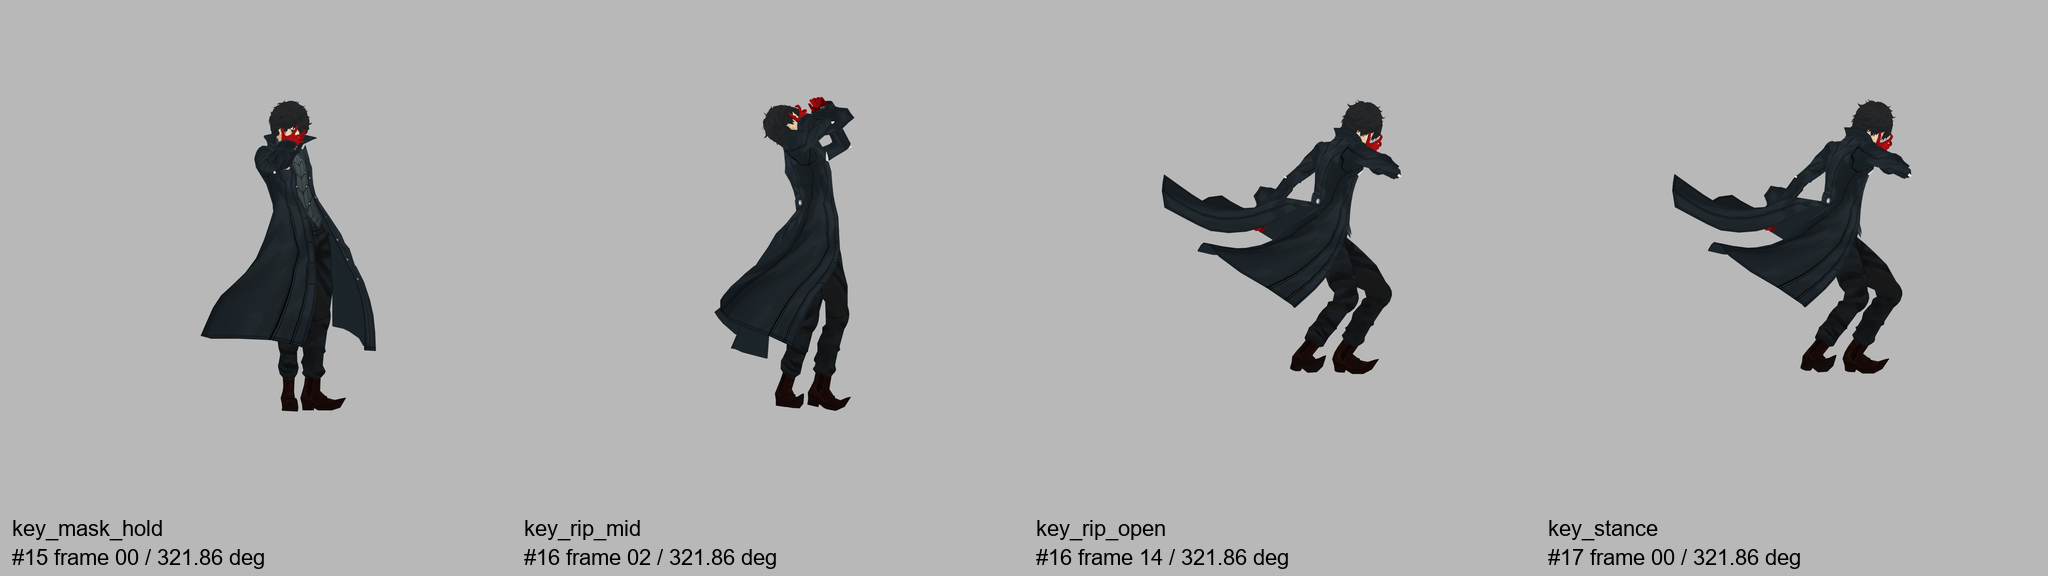
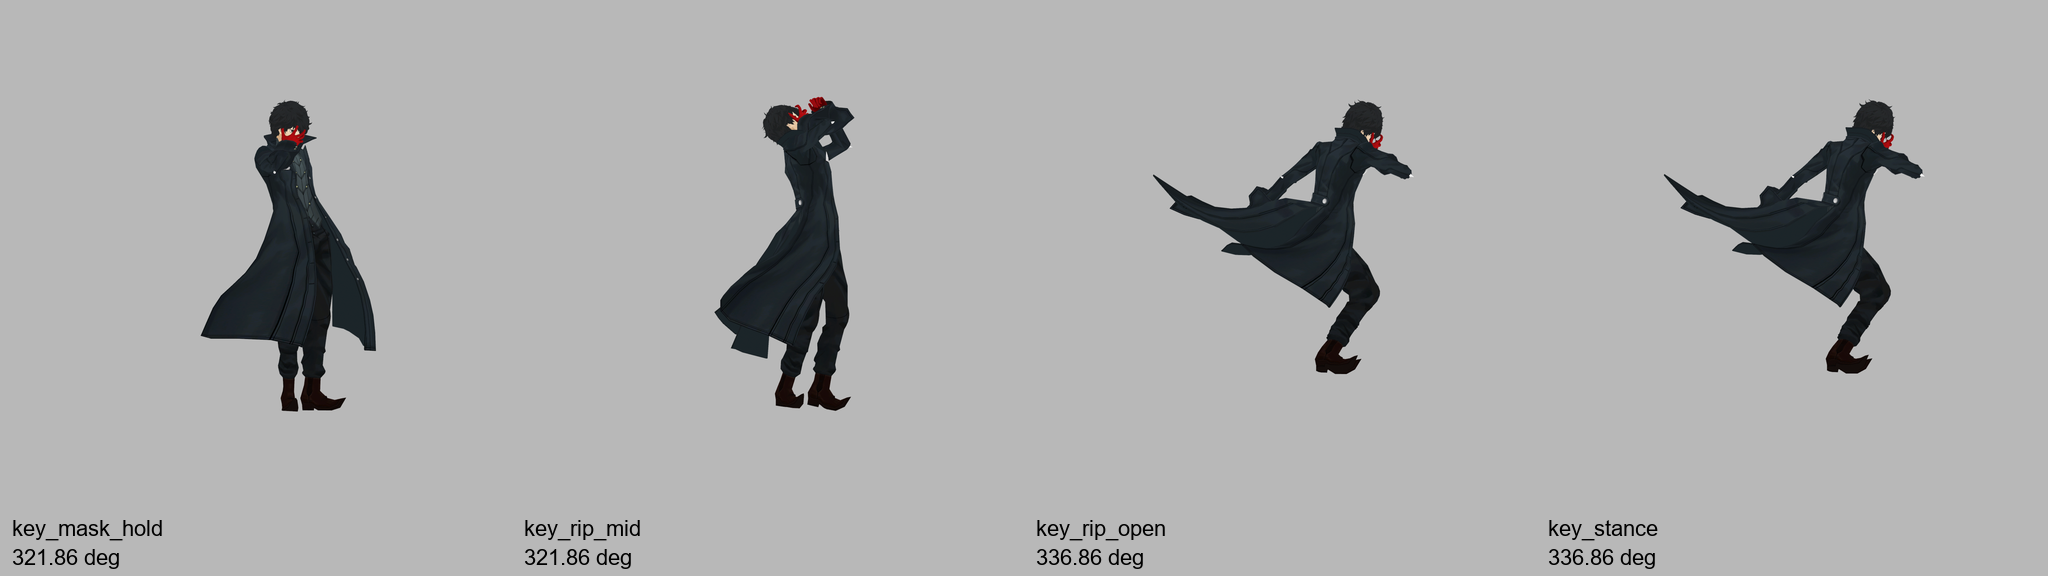
召唤后两张关键帧机位向人物右侧转15度并提供前后对比

diff --git a/research/p5r/summon/scripts/summon_right15_finish.py b/research/p5r/summon/scripts/summon_right15_finish.py
@@ -1,0 +1,61 @@
+from pathlib import Path
+import json,shutil,hashlib
+import numpy as np
+from PIL import Image,ImageDraw,ImageFont
+r=Path(r'C:/Users/kkk/Documents/Codex/2026-10-12/claude-git-c-users-kkk-videos/work/persona-ref-upload');p=r/'research/p5r/summon';q=p/'right15_review';o=Path('outputs/p5_summon_right15');o.mkdir(parents=True,exist_ok=True)
+recs=json.loads((q/'camera_records.json').read_text(encoding='utf-8'));checks=[];first2={n:hashlib.sha256((p/n).read_bytes()).hexdigest() for n in ['key_mask_hold.png','key_rip_mid.png']}
+if (q/'postprocessed.json').exists():raise RuntimeError('Already postprocessed')
+tile=512;cmp=Image.new('RGB',(4*tile,tile+64),(184,184,184));draw=ImageDraw.Draw(cmp);font=ImageFont.truetype('C:/Windows/Fonts/arial.ttf',22)
+for i,c in enumerate(recs):
+ name=c['name'];before=q/('before_'+name);shutil.copy2(p/name,before)
+ im=Image.open(q/name).convert('RGBA').transpose(Image.Transpose.FLIP_LEFT_RIGHT);a=np.array(im);edge=int(max(a[0,:,3].max(),a[-1,:,3].max(),a[:,0,3].max(),a[:,-1,3].max()))
+ assert im.size==(1536,1536) and edge==0,(name,edge)
+ im.save(q/name);shutil.copy2(q/name,p/name);shutil.copy2(q/name,o/name)
+ checks.append({'file':name,'four_edges_alpha_max':edge,'alpha_bbox':im.getchannel('A').getbbox()})
+ for j,(path,label,angle) in enumerate([(before,'before',c['previous_azimuth_degrees']),(q/name,'after',c['azimuth_degrees'])]):
+  src=Image.open(path).convert('RGBA');bg=Image.new('RGBA',src.size,(184,184,184,255));bg.alpha_composite(src);x=(i*2+j)*tile;cmp.paste(bg.convert('RGB').resize((tile,tile),Image.Resampling.LANCZOS),(x,0));draw.text((x+12,tile+4),name.replace('.png','')+' '+label,font=font,fill='black');draw.text((x+12,tile+33),f'{angle:.2f} deg',font=font,fill='black')
+cmp.save(q/'comparison.png');shutil.copy2(q/'comparison.png',o/'comparison.png')
+sheet=Image.new('RGB',(4*tile,tile+64),(184,184,184));draw=ImageDraw.Draw(sheet)
+for i,n in enumerate(['key_mask_hold','key_rip_mid','key_rip_open','key_stance']):
+ im=Image.open(p/(n+'.png')).convert('RGBA');bg=Image.new('RGBA',im.size,(184,184,184,255));bg.alpha_composite(im);sheet.paste(bg.convert('RGB').resize((tile,tile),Image.Resampling.LANCZOS),(i*tile,0));draw.text((i*tile+12,tile+4),n,font=font,fill='black');draw.text((i*tile+12,tile+33),'321.86 deg' if i<2 else '336.86 deg',font=font,fill='black')
+sheet.save(p/'key_contact_sheet.png');shutil.copy2(p/'key_contact_sheet.png',o/'key_contact_sheet.png')
+assert all(hashlib.sha256((p/n).read_bytes()).hexdigest()==h for n,h in first2.items())
+check={'horizontal_mirror_applied':True,'first_two_files_unchanged_sha256':first2,'last_two_checks':checks,'full_animation_renders_unchanged':True}
+(q/'postprocessed.json').write_text(json.dumps(check,indent=2),encoding='utf-8')
+sel=json.loads((p/'key_selection.json').read_text(encoding='utf-8'))
+for k in sel:
+ if k['name'] in [c['name'] for c in recs]:k['selected_camera_degrees']=336.85609585103083;k['source']='right15_review/'+k['name'];k['status']='awaiting user adjusted angle confirmation'
+(p/'key_selection.json').write_text(json.dumps(sel,ensure_ascii=False,indent=2),encoding='utf-8')
+report='''# 召唤后两张关键帧向人物右侧调整（2026-10-26）
+
+用户反馈“后面两帧往人物右边转一些”。本次按相机观察角度调整处理，采用15°的小幅调整；只改key_rip_open（16帧14）与key_stance（17帧0），前两张key_mask_hold和key_rip_mid保持不变。
+
+开始前fetch+merge，最新仍721837b2。以角色右肩减左肩的世界水平向量确定人物自身右侧，比较相机绕竖直轴正负15°哪一边更靠向右肩侧；两张均为从321.856095851°转至336.856095851°（+15°）。不修改人物原始动作、模型、手部或身体旋转。
+
+相机目标、距离、高度及正交大小285.331708331保持不变；1536×1536 RGBA透明底，统一水平镜像。不挂枪。两张四边alpha均0，未裁切衣摆。前两张文件SHA256在修改前后完全一致，记录见right15_review/postprocessed.json。
+
+## 文件
+
+- key_rip_open.png、key_stance.png：当前调整后的后两张关键帧。
+- key_contact_sheet.png：前两张321.86°、后两张336.86°的新四张对比。
+- right15_review/comparison.png：每个后段姿势的改前/改后并排，角度均写明。
+- right15_review/before_key_*.png：保留本次调整前的两张，不改动历史。
+- right15_review/camera_records.json：精确机位及人物右侧方向向量。
+- scripts/summon_right15_render.py、summon_right15_finish.py：实际脚本。
+
+这次仅供确认后两张观察角度，未重新渲完整16/17段；根目录15/16/17逐帧PNG、GIF、联系表及render_records仍是上轮321.86°固定相机结果，不能将其当作336.86°版本。key_selection已为后两张标明新角度与来源，避免混淆。等待用户确认后再决定后续整段统一机位/立绘步骤；没有调用生图工具。
+
+art/cards另一会话11个已修改文件未触碰/提交；既有guard_a本地修改及其他无关未跟踪资源保留。不stash、还原、rebase、reset、强推，未打开结城理mod图片，未读obs.json或密码，未启动游戏。推送后用ls-remote确认origin收到提交。
+'''
+(p/'REPORT_summon_right15.md').write_text(report,encoding='utf-8');(o/'REPORT_summon_right15.md').write_text(report,encoding='utf-8')
+(p/'README.md').write_text('''# 当前召唤参考
+
+用户选择321.86°后，已重渲15/16/17三段并挑关键帧。当前逐帧PNG、联系表、GIF仍为该统一机位。
+
+最新反馈：后两张向人物右侧转一些。本轮仅将key_rip_open和key_stance相机转至336.86°，前两张仍321.86°，新key_contact_sheet.png和right15_review/comparison.png待用户确认。详见REPORT_summon_right15.md及key_selection.json。
+
+未开始召唤立绘生图。旧报告保留过程记录，以最新报告为准。
+''',encoding='utf-8')
+for n in ['summon_right15_render.py','summon_right15_finish.py']:shutil.copy2(Path('work')/n,p/'scripts'/n)
+ap=r/'art/p5/poses/eye_fix/approval_progress.json';a=json.loads(ap.read_text(encoding='utf-8'));a['status']='awaiting_summon_adjusted_keyframe_confirmation';a['summon_reference_status']='前两张321.86度不变，后两张往人物右侧转15度至336.86度，待确认；完整段动画仍321.86度，未生图';ap.write_text(json.dumps(a,ensure_ascii=False,indent=2)+'\n',encoding='utf-8')
+print('Last two keyframes 336.856095851 degrees; first two unchanged; all edges alpha=0.')

diff --git a/research/p5r/summon/scripts/summon_right15_render.py b/research/p5r/summon/scripts/summon_right15_render.py
@@ -1,0 +1,26 @@
+import bpy,json,math
+from pathlib import Path
+from mathutils import Vector
+r=Path(r'C:/Users/kkk/Documents/Codex/2026-10-12/claude-git-c-users-kkk-videos/work/persona-ref-upload');p=r/'research/p5r/summon';out=p/'right15_review';out.mkdir(exist_ok=True)
+clips=json.loads((p/'source_clips.json').read_text(encoding='utf-8'));m=json.loads((p/'angle_options_frames/camera_options.json').read_text(encoding='utf-8'));base=next(c for c in m['options'] if c['offset_degrees']==30);records=[]
+def norm(n):return ''.join(c for c in n.lower() if c.isalnum())
+for name,num,frame in [('key_rip_open',16,14),('key_stance',17,0)]:
+ clip=next(c for c in clips if c['number']==num);bpy.ops.wm.read_factory_settings(use_empty=True);bpy.ops.import_scene.gltf(filepath=clip['attached_glb']);sc=bpy.context.scene;sc.render.fps=30;sc.frame_set(frame);bpy.context.view_layer.update()
+ pos={norm(o.name):o.matrix_world.translation.copy() for o in bpy.data.objects}
+ for o in bpy.data.objects:
+  if o.type=='ARMATURE':
+   for b in o.pose.bones:pos[norm(b.name)]=(o.matrix_world@b.matrix).translation
+ right=pos['bip01rupperarm']-pos['bip01lupperarm'];right.z=0;right.normalize()
+ choices=[]
+ for delta in [-15,15]:
+  az=(base['azimuth_degrees']+delta)%360;direction=Vector((math.cos(math.radians(az)),math.sin(math.radians(az)),0));choices.append((direction.dot(right),delta,az,direction))
+ score,delta,az,direction=max(choices,key=lambda c:c[0])
+ target=Vector(m['camera_target']);loc=target+direction*m['camera_distance'];rot=(target-loc).to_track_quat('-Z','Y').to_euler()
+ sc.render.engine='BLENDER_WORKBENCH';s=sc.display.shading;s.light='FLAT';s.color_type='TEXTURE';s.show_shadows=False;s.show_cavity=False;s.show_specular_highlight=False;s.show_object_outline=False
+ sc.render.film_transparent=True;sc.render.image_settings.file_format='PNG';sc.render.image_settings.color_mode='RGBA';sc.render.resolution_x=1536;sc.render.resolution_y=1536;sc.render.resolution_percentage=100;sc.view_settings.view_transform='Standard'
+ for o in sc.objects:
+  if o.type=='MESH' and o.name=='Icosphere':o.hide_render=True
+ cd=bpy.data.cameras.new('Right15Camera');cam=bpy.data.objects.new('Right15Camera',cd);sc.collection.objects.link(cam);sc.camera=cam;cd.type='ORTHO';cd.ortho_scale=m['ortho_scale'];cd.clip_start=.01;cd.clip_end=100000;cam.location=loc;cam.rotation_euler=rot
+ path=out/(name+'.png');sc.render.filepath=str(path);bpy.ops.render.render(write_still=True)
+ records.append({'name':name+'.png','clip':num,'frame':frame,'previous_azimuth_degrees':base['azimuth_degrees'],'delta_degrees':delta,'azimuth_degrees':az,'camera_location':list(loc),'camera_rotation':list(rot),'character_right_axis_world':list(right),'selection_rule':'choose orbit sign that moves camera toward anatomical right shoulder side','ortho_scale':m['ortho_scale'],'camera_target':list(target),'resolution':[1536,1536],'horizontal_mirror':True})
+(out/'camera_records.json').write_text(json.dumps(records,indent=2),encoding='utf-8');print('RIGHT15_READY',json.dumps(records),flush=True)

diff --git a/research/p5r/summon/REPORT_summon_right15.md b/research/p5r/summon/REPORT_summon_right15.md
@@ -1,0 +1,20 @@
+# 召唤后两张关键帧向人物右侧调整（2026-10-26）
+
+用户反馈“后面两帧往人物右边转一些”。本次按相机观察角度调整处理，采用15°的小幅调整；只改key_rip_open（16帧14）与key_stance（17帧0），前两张key_mask_hold和key_rip_mid保持不变。
+
+开始前fetch+merge，最新仍721837b2。以角色右肩减左肩的世界水平向量确定人物自身右侧，比较相机绕竖直轴正负15°哪一边更靠向右肩侧；两张均为从321.856095851°转至336.856095851°（+15°）。不修改人物原始动作、模型、手部或身体旋转。
+
+相机目标、距离、高度及正交大小285.331708331保持不变；1536×1536 RGBA透明底，统一水平镜像。不挂枪。两张四边alpha均0，未裁切衣摆。前两张文件SHA256在修改前后完全一致，记录见right15_review/postprocessed.json。
+
+## 文件
+
+- key_rip_open.png、key_stance.png：当前调整后的后两张关键帧。
+- key_contact_sheet.png：前两张321.86°、后两张336.86°的新四张对比。
+- right15_review/comparison.png：每个后段姿势的改前/改后并排，角度均写明。
+- right15_review/before_key_*.png：保留本次调整前的两张，不改动历史。
+- right15_review/camera_records.json：精确机位及人物右侧方向向量。
+- scripts/summon_right15_render.py、summon_right15_finish.py：实际脚本。
+
+这次仅供确认后两张观察角度，未重新渲完整16/17段；根目录15/16/17逐帧PNG、GIF、联系表及render_records仍是上轮321.86°固定相机结果，不能将其当作336.86°版本。key_selection已为后两张标明新角度与来源，避免混淆。等待用户确认后再决定后续整段统一机位/立绘步骤；没有调用生图工具。
+
+art/cards另一会话11个已修改文件未触碰/提交；既有guard_a本地修改及其他无关未跟踪资源保留。不stash、还原、rebase、reset、强推，未打开结城理mod图片，未读obs.json或密码，未启动游戏。推送后用ls-remote确认origin收到提交。

diff --git a/research/p5r/summon/README.md b/research/p5r/summon/README.md
@@ -1,7 +1,7 @@
 # 当前召唤参考
 
-用户已选321.86°，实际321.85609585103083°。当前15/16/17帧、联系表、GIF与四张key均为此机位，1536×1536透明原图，三段相机固定。
+用户选择321.86°后，已重渲15/16/17三段并挑关键帧。当前逐帧PNG、联系表、GIF仍为该统一机位。
 
-看`key_contact_sheet.png`及`REPORT_summon_selected.md`。目前等待用户确认关键帧，未开始召唤立绘生图。
+最新反馈：后两张向人物右侧转一些。本轮仅将key_rip_open和key_stance相机转至336.86°，前两张仍321.86°，新key_contact_sheet.png和right15_review/comparison.png待用户确认。详见REPORT_summon_right15.md及key_selection.json。
 
-旧`REPORT_summon_refs.md`仅记录前版背面/裁切问题；`REPORT_summon_angle_options.md`及`angle_options.png`保留角度选择过程。
+未开始召唤立绘生图。旧报告保留过程记录，以最新报告为准。
